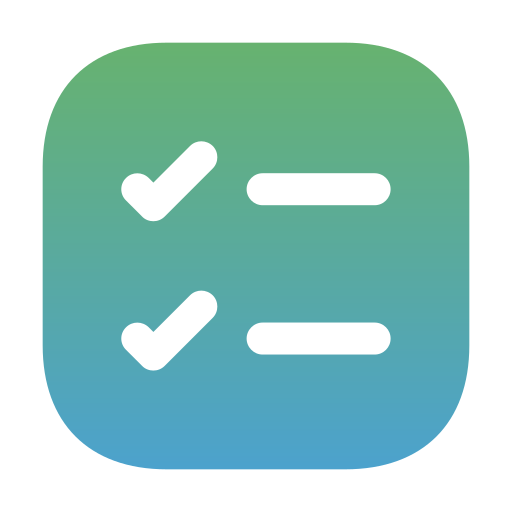
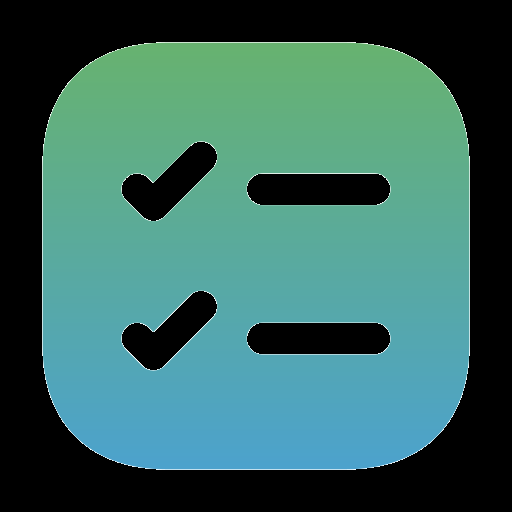
纯黑图标

diff --git a/index.html b/index.html
@@ -13,11 +13,9 @@
     <title>TapFlow</title>
     <header id="page-title" onclick="showAbout()">TapFlow</header>
     <!-- 苹果 WebApp 全屏模式 -->
-    <link rel="apple-touch-icon"
[1 lines of base64/hex data omitted]
+    <link rel="apple-touch-icon" href="icon.png">
 
-    <link rel="apple-touch-icon" sizes="180x180"
[1 lines of base64/hex data omitted]
+    <link rel="apple-touch-icon" sizes="180x180" href="icon.png">
     <meta name="apple-mobile-web-app-capable" content="yes">
     <!-- 苹果导航栏样式 -->
     <meta name="apple-mobile-web-app-status-bar-style" content="default">
